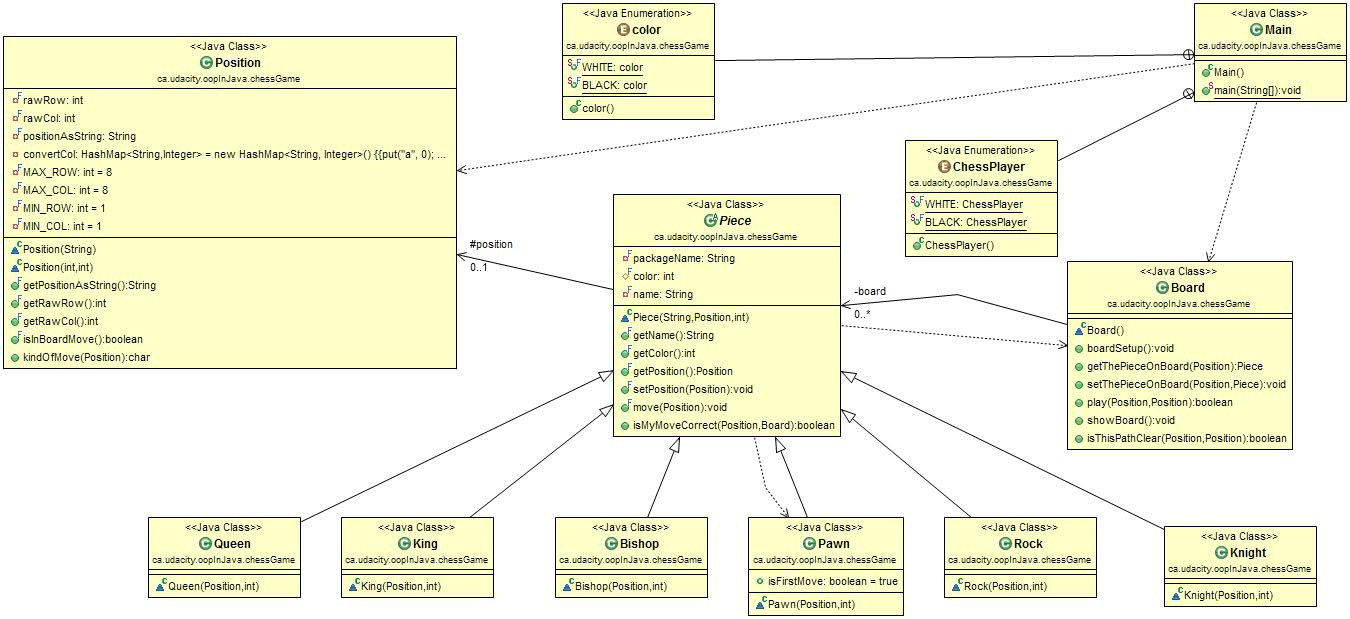
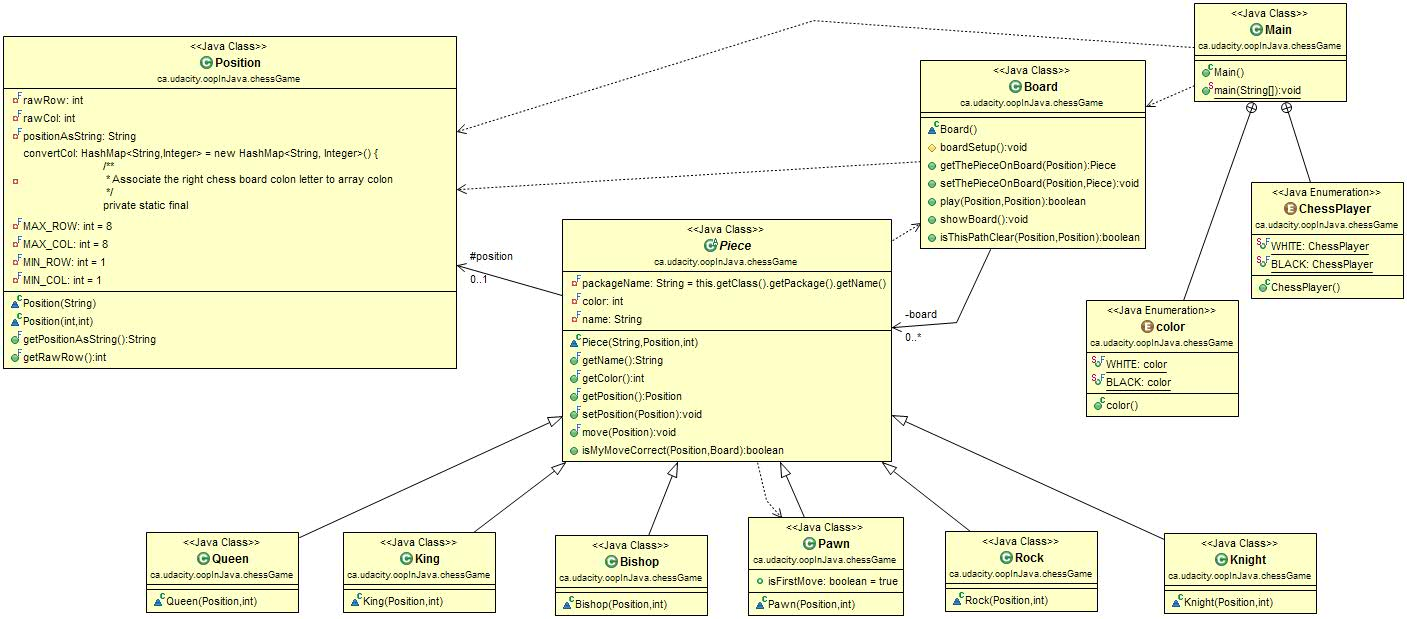
Amelioration de ChessGame

diff --git a/Udacity/src/ca/udacity/oopInJava/chessGame/Position.java b/Udacity/src/ca/udacity/oopInJava/chessGame/Position.java
@@ -8,14 +8,22 @@ public class Position {
 	private final int rawCol;
 	private final String positionAsString;
 	
-	private HashMap<String, Integer> convertCol = new HashMap<String, Integer>() {{put("a", 0); put("b", 1); put("c", 2); put("d", 3); put("e", 4); put("f", 5); put("g", 6); put("h", 7);}};
+	private HashMap<String, Integer> convertCol = new HashMap<String, Integer>() {
+		/**
+		 * Associate the right chess board colon letter to array colon 
+		 */
+		private static final long serialVersionUID = 1L; // to avoid compiler warning.
+
+		{put("a", 0); put("b", 1); put("c", 2); put("d", 3); put("e", 4); put("f", 5); put("g", 6); put("h", 7);}
+	};
+	
 	
 	private final int MAX_ROW = 8;
 	private final int MAX_COL = 8;
 	private final int MIN_ROW = 1;
 	private final int MIN_COL = 1;
 	
-	Position(String s){
+	Position(final String s){
 		
 		// debug
 		assert(s.length()==2):"INVALID POSITION STRING";
@@ -33,7 +41,7 @@ public class Position {
 		this.rawCol = convertCol.get(col);
 	}
 	
-	Position(int rawRow, int rawCol){
+	Position(final int rawRow, final int rawCol){
 		// debug
 		assert(rawRow>=MIN_ROW-1 && rawRow<MAX_ROW && rawCol>=MIN_COL-1 && rawCol<MAX_COL):"INVALID POSITION ARGUMENTS";
 		// debug end
@@ -68,19 +76,16 @@ public class Position {
 		return (this.rawRow >= MIN_ROW-1 && this.rawCol >= MIN_COL-1 && this.rawRow < MAX_ROW && this.rawCol < MAX_COL);
 	}
 	
-	public char kindOfMove(Position dest) { //'D': diagonal move, 'V': vertical move, 'H': horizental move, 'C': knight move, 'K': king move, , 'E': error
+	public final char kindOfMove(final Position dest) { //'D': diagonal move, 'V': vertical move, 'H': horizental move, 'X': error
 		int srcRow = this.getRawRow();
 		int destRow = dest.getRawRow();
 		int srcCol = this.getRawCol();
 		int destCol = dest.getRawCol();
-		char result = 'E'; // error
+		char result = 'X'; // error
 		
-		if ((Math.abs(destCol - srcCol) == 2 && Math.abs(destRow - srcRow) == 1) || (Math.abs(destCol - srcCol) == 1 && Math.abs(destRow - srcRow) == 2)) result = 'C';
 		if (Math.abs(destCol - srcCol) == Math.abs(destRow - srcRow)) result = 'D';
 		if (destCol == srcCol) result = 'V';
 		if (destRow == srcRow) result = 'H';
-		
-		//if ( (Math.abs(destCol - srcCol) == 1 && (destRow == srcRow)) || (Math.abs(destRow - srcRow) == 1 && (destCol == srcCol)) || (Math.abs(destCol - srcCol) == 1 && Math.abs(destRow - srcRow) == 1)) return 'K';
 		
 		return result;
 	}

diff --git a/Udacity/src/ca/udacity/oopInJava/chessGame/Board.java b/Udacity/src/ca/udacity/oopInJava/chessGame/Board.java
@@ -2,14 +2,14 @@ package ca.udacity.oopInJava.chessGame;
 
 public class Board {
 	
-	private Piece[][] board;
+	private final Piece[][] board;
 	
 	Board(){
 		// Setup an empty board
 		this.board = new Piece[8][8];
 	}
 	
-	public void boardSetup() {
+	protected void boardSetup() {
 		
 			// white pieces <=> color = 0
 			board[7][0]= new Rock(new Position("a1"), 0); board[7][7]= new Rock(new Position("h1"), 0);
@@ -34,15 +34,15 @@ public class Board {
 		
 	}
 	
-	public Piece getThePieceOnBoard(Position position) {
+	public Piece getThePieceOnBoard(final Position position) {
 		return board[position.getRawRow()][position.getRawCol()];
 	}
 	
-	public void setThePieceOnBoard(Position position, Piece piece) {
+	public void setThePieceOnBoard(final Position position, final Piece piece) {
 		board[position.getRawRow()][position.getRawCol()] = piece;
 	}
 		
-	public boolean play(Position source, Position dest) {
+	public boolean play(final Position source, final Position dest) {
 		
 		Piece pieceToMove = board[source.getRawRow()][source.getRawCol()];
 		
@@ -84,7 +84,7 @@ public class Board {
 	}
 	
 	//'D': diagonal move, 'V': vertical move, 'H': horizental move
-	public boolean isThisPathClear(Position source, Position dest) {
+	public boolean isThisPathClear(final Position source, final Position dest) {
 		
 		Piece pieceSrc = this.getThePieceOnBoard(source);
 		Piece pieceDest = this.getThePieceOnBoard(dest);
@@ -93,10 +93,11 @@ public class Board {
 		assert(pieceSrc != null):"ABNORMAL CALL!!!";
 		// debug end
 		
-		boolean isOtherReqMeet = dest.isInBoardMove() && (pieceDest == null || pieceDest.color != pieceSrc.color);
-		if (this.getThePieceOnBoard(source).getName().equals("knight")) return isOtherReqMeet;
+		boolean isOtherReqMeet = dest.isInBoardMove() && (pieceDest == null || pieceDest.getColor() != pieceSrc.getColor());
 		
-		char kindOfMove = source.kindOfMove(dest);
+		if (this.getThePieceOnBoard(source).getName().equals("knight")) return isOtherReqMeet; // knight does not need to have a clear path to move
+		
+		char kindOfMove = source.kindOfMove(dest); // is it a vertical, horizontal or diagonal move
 		
 		// debug
 		System.out.println("Kind of path: " + kindOfMove);

diff --git a/Udacity/src/ca/udacity/oopInJava/chessGame/Piece.java b/Udacity/src/ca/udacity/oopInJava/chessGame/Piece.java
@@ -4,8 +4,8 @@ public abstract class Piece {
 	
 	private final String packageName = this.getClass().getPackage().getName(); //used to detect which kind of Piece is in "isMyMoveCorrect" method
 	
-	protected Position position;
-	protected final int color; //0 for white and 1 for black
+	private Position position;
+	private final int color; //0 for white and 1 for black
 	private final String name;
 	
 	Piece(String name, Position position, int color){
@@ -26,17 +26,17 @@ public abstract class Piece {
 		return this.position;
 	}
 	
-	public final void setPosition(Position position) {
+	public final void setPosition(final Position position) {
 		this.position = position;
 	}
 	
-	public final void move(Position newPosition) {
+	public final void move(final Position newPosition) {
 		this.setPosition(newPosition);
 	}
 	
 	//public abstract boolean isValideMove(Position newPosition, Board board);
 	
-	public boolean isMyMoveCorrect(Position dest, Board board) { 
+	public boolean isMyMoveCorrect(final Position dest, final Board board) { 
 		int srcRow = this.getPosition().getRawRow();
 		int destRow = dest.getRawRow();
 		int srcCol = this.getPosition().getRawCol();

diff --git a/Udacity/src/ca/udacity/oopInJava/chessGame/Knight.java b/Udacity/src/ca/udacity/oopInJava/chessGame/Knight.java
@@ -6,27 +6,4 @@ public class Knight extends Piece {
 		super("knight", position, color);
 	}
 	
-	// to correct
-	/*public boolean isValideMove(Position newPosition, Board board){
-		
-		// debug
-		System.out.println("KNIGHT");
-		System.out.println("Src: " + this.getPosition().getPositionAsString());
-		System.out.println("Dest: " + newPosition.getPositionAsString());
-		// debug end
-		
-		// stop if the move is outside board or if there is an obstacle on the diagonal path
-		char kindOfMove = this.getPosition().kindOfMove(newPosition);
-		Piece pieceToEat = board.getThePieceOnBoard(newPosition);
-		
-		// debug
-		System.out.println("Move inside board: " + newPosition.isInBoardMove());
-		System.out.println("Path to dest clear: : " + board.isThisPathClear(this.getPosition(), newPosition));
-		System.out.println("pieceToEat: " + pieceToEat);
-		if (pieceToEat != null) System.out.println("pieceToEat.color: " + pieceToEat.color);
-		// debug end
-		
-		return ( (newPosition.isInBoardMove()) && (kindOfMove == 'C') && (pieceToEat == null || pieceToEat.color != this.color) );
-	}*/
-
 }

diff --git a/Udacity/src/ca/udacity/oopInJava/chessGame/Main.java b/Udacity/src/ca/udacity/oopInJava/chessGame/Main.java
@@ -89,10 +89,6 @@ public class Main {
 		chessBoard.showBoard();
 		*/
 		
-		// Queen test
-		
-		// King test
-		
 		// Knight test
 		chessBoard.play(new Position("e2"), new Position("e3"));
 		chessBoard.showBoard();
@@ -116,14 +112,11 @@ public class Main {
 		chessBoard.showBoard();
 		chessBoard.play(new Position("a3"), new Position("b1"));
 		chessBoard.showBoard();
-		/*chessBoard.play(new Position("d7"), new Position("d6"));
-		chessBoard.showBoard();
-		chessBoard.play(new Position("c3"), new Position("h3"));
-		chessBoard.showBoard();
-		chessBoard.play(new Position("d6"), new Position("d5"));
-		chessBoard.showBoard();
-		chessBoard.play(new Position("h3"), new Position("h1"));
-		chessBoard.showBoard();*/
+		
+		// Queen test
+		
+		// King test
+		
 	}
 
 }
